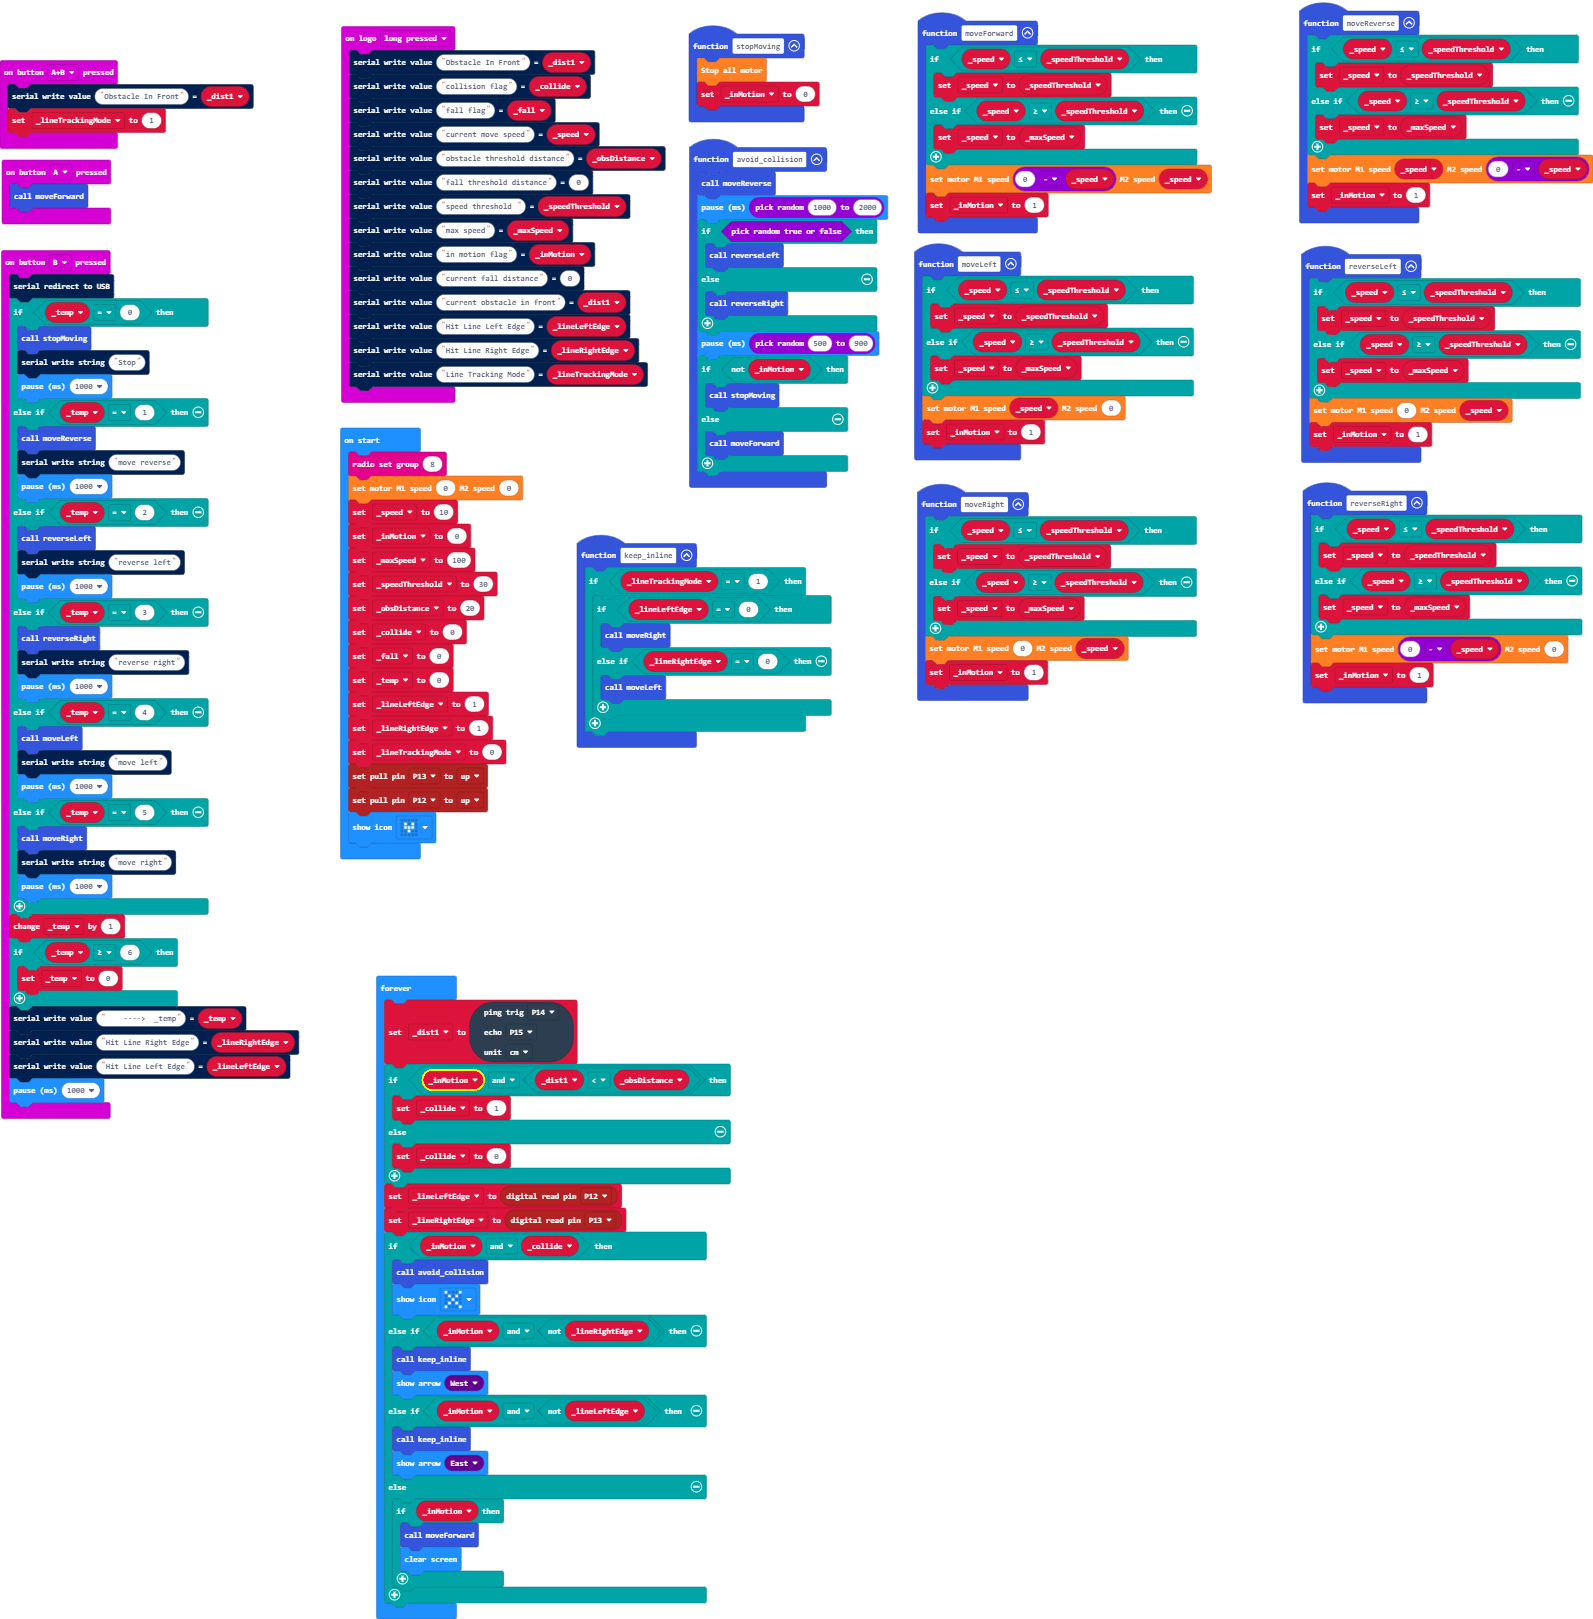
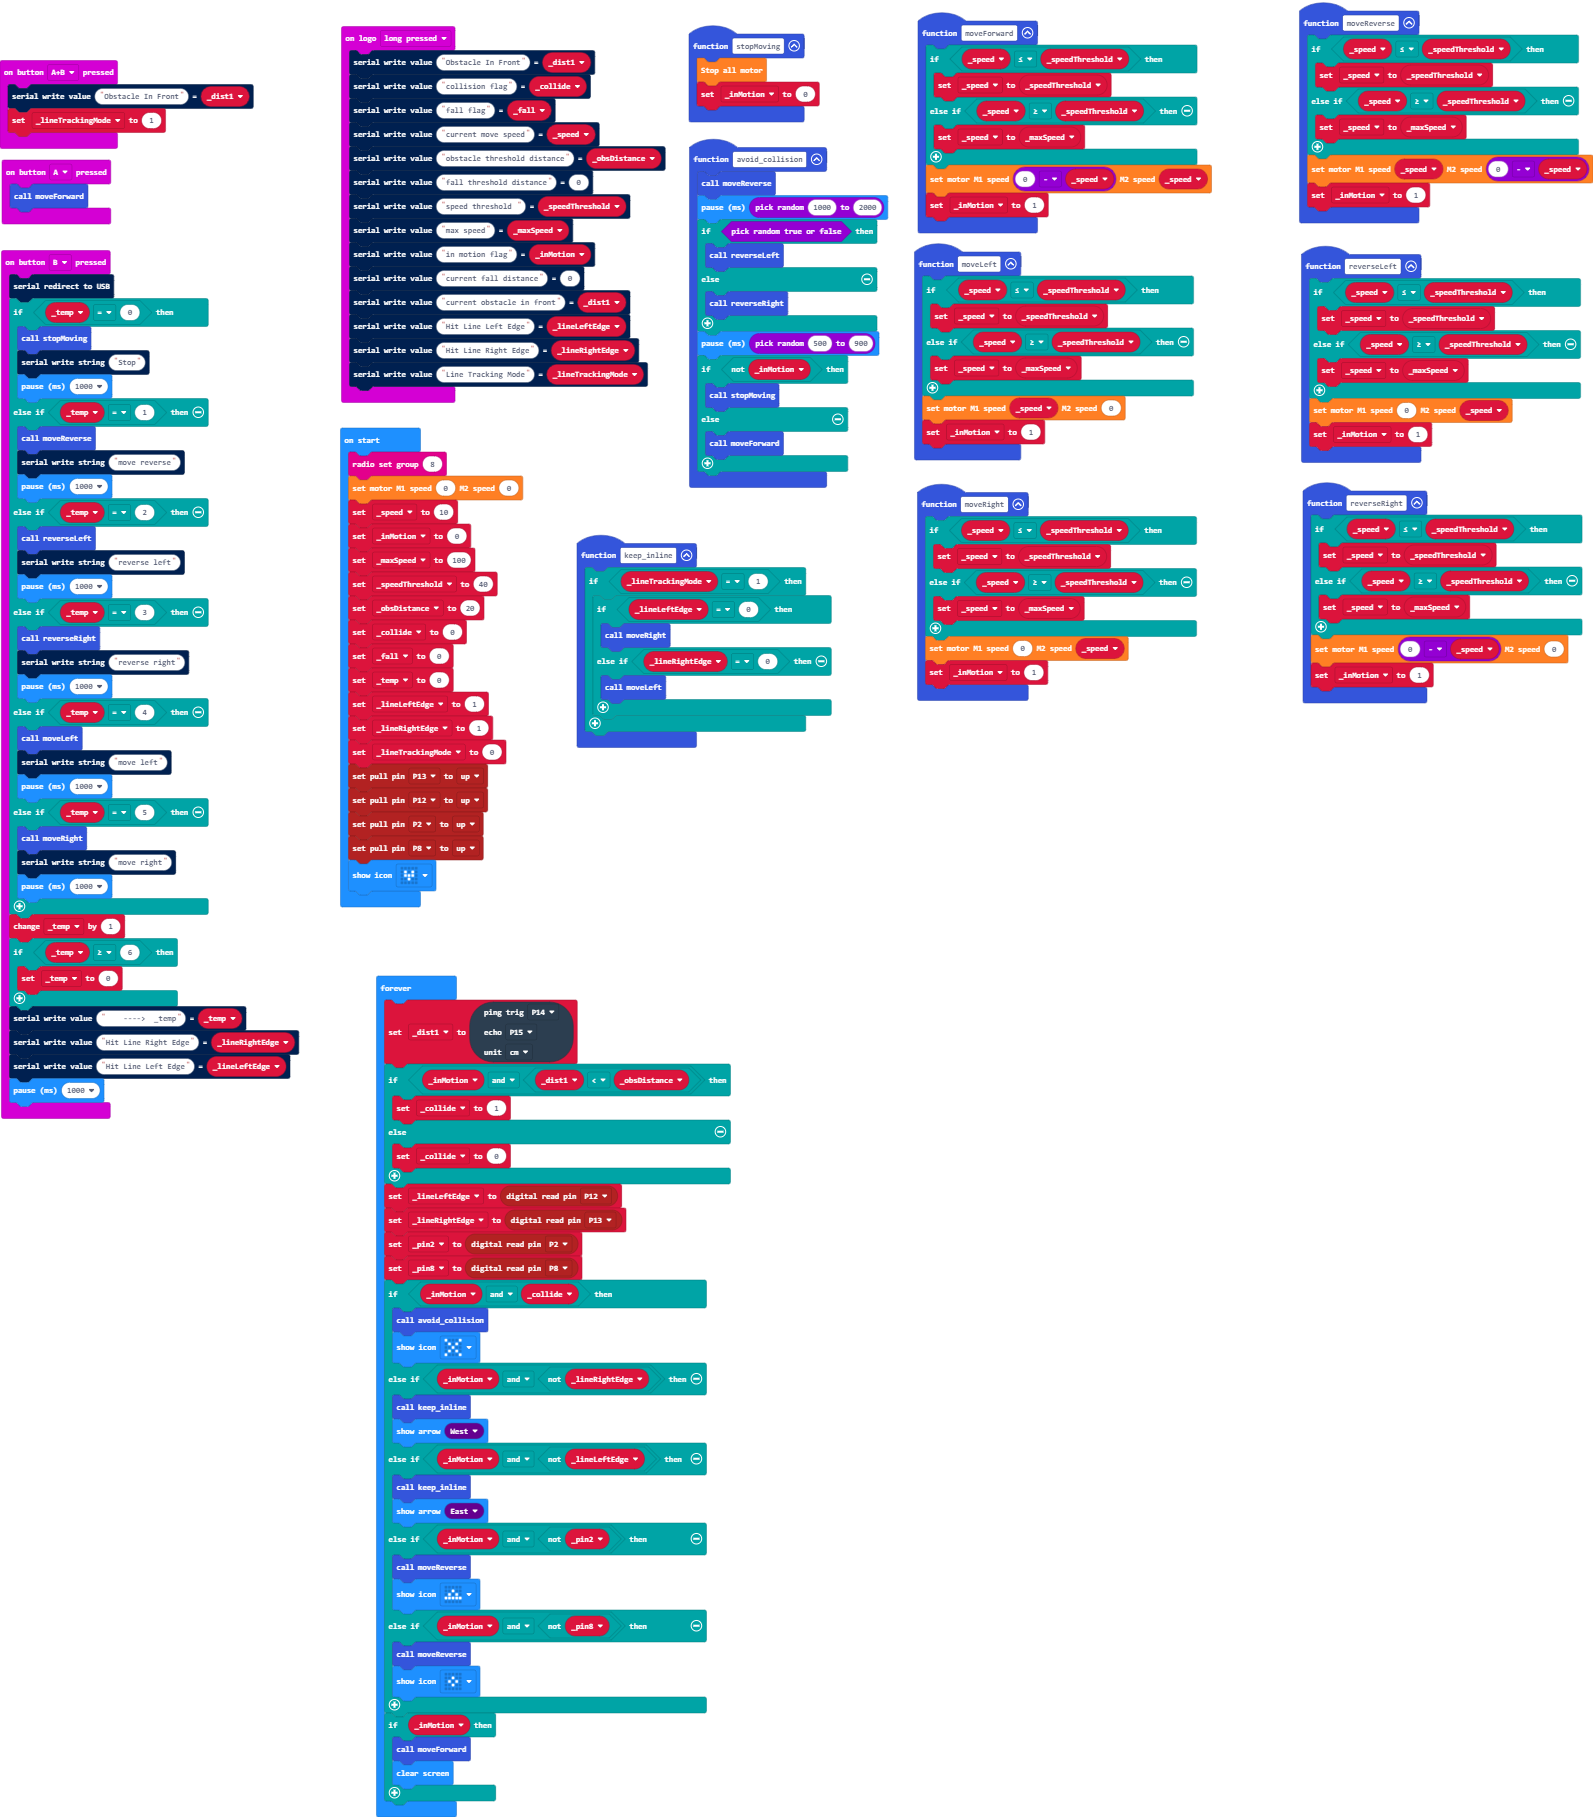
Update main.blocks, main.ts

diff --git a/main.ts b/main.ts
@@ -139,6 +139,8 @@ function keep_inline () {
         }
     }
 }
+let _pin8 = 0
+let _pin2 = 0
 let _dist1 = 0
 let _lineTrackingMode = 0
 let _lineRightEdge = 0
@@ -156,7 +158,7 @@ wuKong.setAllMotor(0, 0)
 _speed = 10
 _inMotion = 0
 _maxSpeed = 100
-_speedThreshold = 30
+_speedThreshold = 40
 _obsDistance = 20
 _collide = 0
 _fall = 0
@@ -166,6 +168,8 @@ _lineRightEdge = 1
 _lineTrackingMode = 0
 pins.setPull(DigitalPin.P13, PinPullMode.PullUp)
 pins.setPull(DigitalPin.P12, PinPullMode.PullUp)
+pins.setPull(DigitalPin.P2, PinPullMode.PullUp)
+pins.setPull(DigitalPin.P8, PinPullMode.PullUp)
 basic.showIcon(IconNames.SmallHeart)
 basic.forever(function () {
     _dist1 = sonar.ping(
@@ -180,6 +184,8 @@ basic.forever(function () {
     }
     _lineLeftEdge = pins.digitalReadPin(DigitalPin.P12)
     _lineRightEdge = pins.digitalReadPin(DigitalPin.P13)
+    _pin2 = pins.digitalReadPin(DigitalPin.P2)
+    _pin8 = pins.digitalReadPin(DigitalPin.P8)
     if (_inMotion && _collide) {
         avoid_collision()
         basic.showIcon(IconNames.No)
@@ -189,10 +195,15 @@ basic.forever(function () {
     } else if (_inMotion && !(_lineLeftEdge)) {
         keep_inline()
         basic.showArrow(ArrowNames.East)
-    } else {
-        if (_inMotion) {
-            moveForward()
-            basic.clearScreen()
-        }
+    } else if (_inMotion && !(_pin2)) {
+        moveReverse()
+        basic.showIcon(IconNames.Triangle)
+    } else if (_inMotion && !(_pin8)) {
+        moveReverse()
+        basic.showIcon(IconNames.SmallDiamond)
+    }
+    if (_inMotion) {
+        moveForward()
+        basic.clearScreen()
     }
 })
